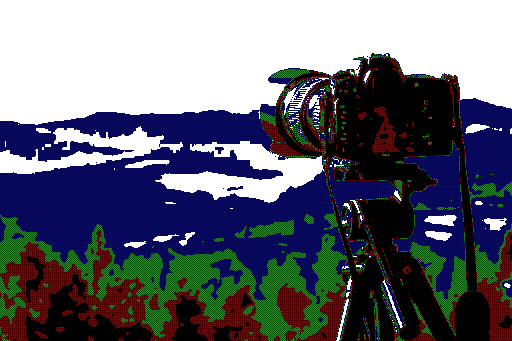
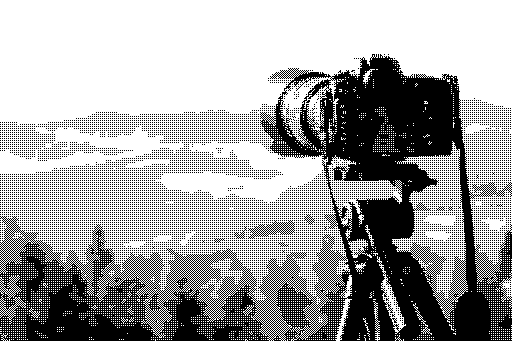
Non working colored dithering

diff --git a/src/picture/ColoredDitheringConvertor.java b/src/picture/ColoredDitheringConvertor.java
@@ -1,0 +1,197 @@
+package picture;
+
+import java.awt.image.BufferedImage;
+import java.util.function.BiPredicate;
+
+public final class ColoredDitheringConvertor {
+
+	/* VARIABLES */
+
+	private static BufferedImage _exportedPicture;
+	private static BufferedImage _coloredPicture;
+	private static BufferedImage _grayscaledPicture;
+
+	private static int _pictureWidth, _pictureHeight;
+
+	private static int _whitePixel, _lightWhitePixel, _lightBlackPixel, _mediumWhitePixel, _mediumBlackPixel,
+			_darkWhitePixel, _darkBlackPixel, _blackPixel;
+
+	/* CONSTRUCTORS */
+
+	private ColoredDitheringConvertor() {
+		// Just to be a private class
+	}
+
+	/* PUBLIC METHODS */
+
+	public static BufferedImage convertPicture(String filepath, int exportedWidth) {
+		_coloredPicture = PictureImporter.importPicture(filepath);
+		_grayscaledPicture = PictureImporter.importPicture(filepath);
+		return executeConversion(exportedWidth);
+	}
+
+	public static BufferedImage convertPicture(BufferedImage importedPicture, int exportedWidth) {
+		_coloredPicture = importedPicture;
+		_grayscaledPicture = importedPicture;
+		return executeConversion(exportedWidth);
+	}
+
+	/* PRIVATE METHODS */
+
+	private static BufferedImage executeConversion(int exportedWidth) {
+		preparePictures(exportedWidth);
+		prepareVariables();
+		getPixelShades();
+
+		return _exportedPicture;
+	}
+
+	private static void preparePictures(int exportedWidth) {
+		_coloredPicture = PixelArtConvertor.convertPicture(_coloredPicture, exportedWidth);
+
+		_grayscaledPicture = GrayscaleConvertor.convertPicture(_coloredPicture);
+		_grayscaledPicture = PixelArtConvertor.convertPicture(_grayscaledPicture, exportedWidth);
+	}
+
+	private static void prepareVariables() {
+		_pictureWidth = _grayscaledPicture.getWidth();
+		_pictureHeight = _grayscaledPicture.getHeight();
+
+		_exportedPicture = new BufferedImage(_pictureWidth, _pictureHeight, BufferedImage.TYPE_INT_ARGB);
+	}
+
+	private static void getPixelShades() {
+		int[] twoValues;
+		BiPredicate<Integer, Integer> ditheringPattern;
+
+		_blackPixel = extractLocationBasedColours(0);
+		System.out.println(_blackPixel);
+
+		ditheringPattern = (x, y) -> (x % 2 == 0 || y % 2 == 0);
+		twoValues = extractLocationBasedColours(1, ditheringPattern);
+		_lightBlackPixel = twoValues[0];
+		_lightWhitePixel = twoValues[1];
+		System.out.println(_lightWhitePixel + " " + _lightBlackPixel);
+
+		ditheringPattern = (x, y) -> ((x + y) % 2 == 0);
+		twoValues = extractLocationBasedColours(1, ditheringPattern);
+		_mediumBlackPixel = twoValues[0];
+		_mediumWhitePixel = twoValues[1];
+		System.out.println(_mediumWhitePixel + " " + _mediumBlackPixel);
+
+		ditheringPattern = (x, y) -> (x % 2 == 0 && y % 2 == 0);
+		twoValues = extractLocationBasedColours(1, ditheringPattern);
+		_darkBlackPixel = twoValues[0];
+		_darkWhitePixel = twoValues[1];
+		System.out.println(_darkWhitePixel + " " + _darkBlackPixel);
+
+		_whitePixel = extractLocationBasedColours(4);
+		System.out.println(_whitePixel);
+	}
+
+	private static int[] extractLocationBasedColours(int targetRange, BiPredicate<Integer, Integer> ditheringPattern) {
+		int[] lightColour = new int[5];
+		int[] darkColour = new int[5];
+		int pixel;
+
+		for (int x = 0; x < _pictureWidth; x++) {
+			for (int y = 0; y < _pictureHeight; y++) {
+				pixel = _grayscaledPicture.getRGB(x, y);
+
+				if (pixelToLuminosity(pixel) / 51 == targetRange) {
+					if (ditheringPattern.test(x, y)) {
+						darkColour[0] += (pixel >> 24) & 0xff;
+						darkColour[1] += (pixel >> 16) & 0xff;
+						darkColour[2] += (pixel >> 8) & 0xff;
+						darkColour[3] += pixel & 0xff;
+						darkColour[4]++;
+					} else {
+						lightColour[0] += (pixel >> 24) & 0xff;
+						lightColour[1] += (pixel >> 16) & 0xff;
+						lightColour[2] += (pixel >> 8) & 0xff;
+						lightColour[3] += pixel & 0xff;
+						lightColour[4]++;
+					}
+				}
+			}
+		}
+		
+		for (int i = 0; i < 4; i++) {
+			lightColour[i] /= lightColour[4];
+			darkColour[i] /= darkColour[4];
+		}
+
+		int lightPixel = (255 << 24) | (lightColour[1] << 16) | (lightColour[2] << 8) | lightColour[3];
+		int darkPixel = (255 << 24) | (darkColour[1] << 16) | (darkColour[2] << 8) | darkColour[3];
+
+		return new int[] { darkPixel, lightPixel };
+	}
+
+	private static int extractLocationBasedColours(int targetRange) {
+		int[] lightColour = new int[5];
+		int pixel;
+
+		for (int x = 0; x < _pictureWidth; x++) {
+			for (int y = 0; y < _pictureHeight; y++) {
+				pixel = _coloredPicture.getRGB(x, y);
+
+				if (pixelToLuminosity(pixel) / 51 == targetRange) {
+					lightColour[0] += (pixel >> 24) & 0xff;
+					lightColour[1] += (pixel >> 16) & 0xff;
+					lightColour[2] += (pixel >> 8) & 0xff;
+					lightColour[3] += pixel & 0xff;
+					lightColour[4]++;
+				}
+			}
+		}
+
+		for (int i = 0; i < 4; i++) {
+			lightColour[i] /= lightColour[4];
+		}
+
+		int lightPixel = (255 << 24) | (lightColour[1] << 16) | (lightColour[2] << 8) | lightColour[3];
+
+		return lightPixel;
+	}
+
+	private static int pixelToLuminosity(int pixel) {
+		int a = (pixel >> 24) & 0xff;
+		int r = (pixel >> 16) & 0xff;
+		int g = (pixel >> 8) & 0xff;
+		int b = pixel & 0xff;
+
+		return (int) (.3f * r + .59f * g + .11f * b);
+	}
+
+	private static void setPixelValue(int x, int y, int avg) {
+		switch (avg / 51) {
+		case 0:
+			_exportedPicture.setRGB(x, y, _blackPixel);
+			break;
+		case 1:
+			if (x % 2 == 0 || y % 2 == 0) {
+				_exportedPicture.setRGB(x, y, _darkBlackPixel);
+			} else {
+				_exportedPicture.setRGB(x, y, _darkWhitePixel);
+			}
+			break;
+		case 2:
+			if ((x + y) % 2 == 0) {
+				_exportedPicture.setRGB(x, y, _mediumBlackPixel);
+			} else {
+				_exportedPicture.setRGB(x, y, _mediumWhitePixel);
+			}
+			break;
+		case 3:
+			if (x % 2 == 0 && y % 2 == 0) {
+				_exportedPicture.setRGB(x, y, _lightBlackPixel);
+			} else {
+				_exportedPicture.setRGB(x, y, _lightWhitePixel);
+			}
+			break;
+		default:
+			_exportedPicture.setRGB(x, y, _whitePixel);
+			break;
+		}
+	}
+}

diff --git a/src/main/Main.java b/src/main/Main.java
@@ -5,6 +5,7 @@ import java.io.File;
 import java.io.IOException;
 import javax.imageio.ImageIO;
 
+import picture.ColoredDitheringConvertor;
 import picture.DitheringConvertor;
 import picture.GrayscaleConvertor;
 import picture.PixelArtConvertor;
@@ -13,7 +14,11 @@ public class Main {
 
 	public static void main(String[] args) throws IOException {
 
-		BufferedImage GrayscaleCamera = GrayscaleConvertor.convertPicture("pictures/CameraPicture.png");
+		BufferedImage colouredDithering = ColoredDitheringConvertor.convertPicture("pictures/CameraPicture.png", 256);
+		File outputFile = new File("pictures/colouredDithering.png");
+		ImageIO.write(colouredDithering, "png", outputFile);
+		
+		/*BufferedImage GrayscaleCamera = GrayscaleConvertor.convertPicture("pictures/CameraPicture.png");
 		File outputFile = new File("pictures/GrayscaleCamera.png");
 		ImageIO.write(GrayscaleCamera, "png", outputFile);
 		
@@ -23,6 +28,6 @@ public class Main {
 		
 		BufferedImage DitheredCamera = DitheringConvertor.convertPicture(PixelArtCamera);
 		outputFile = new File("pictures/DitheredCamera.png");
-		ImageIO.write(DitheredCamera, "png", outputFile);
+		ImageIO.write(DitheredCamera, "png", outputFile);*/
 	}
 }

diff --git a/src/picture/GrayscaleConvertor.java b/src/picture/GrayscaleConvertor.java
@@ -30,15 +30,24 @@ public final class GrayscaleConvertor {
 	 */
 	public static BufferedImage convertPicture(String filepath) {
 		_importedPicture = PictureImporter.importPicture(filepath);
-		registerVariables();
-		createExportedPicture();
-		convertPictureToGrayscale();
+		return executeConversion();
+	}
 
-		return _exportedPicture;
+	public static BufferedImage convertPicture(BufferedImage importedPicture) {
+		_importedPicture = importedPicture;
+		return executeConversion();
 	}
 
 	/* PRIVATE METHODS */
 
+	private static BufferedImage executeConversion() {
+		registerVariables();
+		createExportedPicture();
+		convertPictureToGrayscale();
+		
+		return _exportedPicture;
+	}
+	
 	/**
 	 * Stores the variables extracted from the original picture
 	 */
